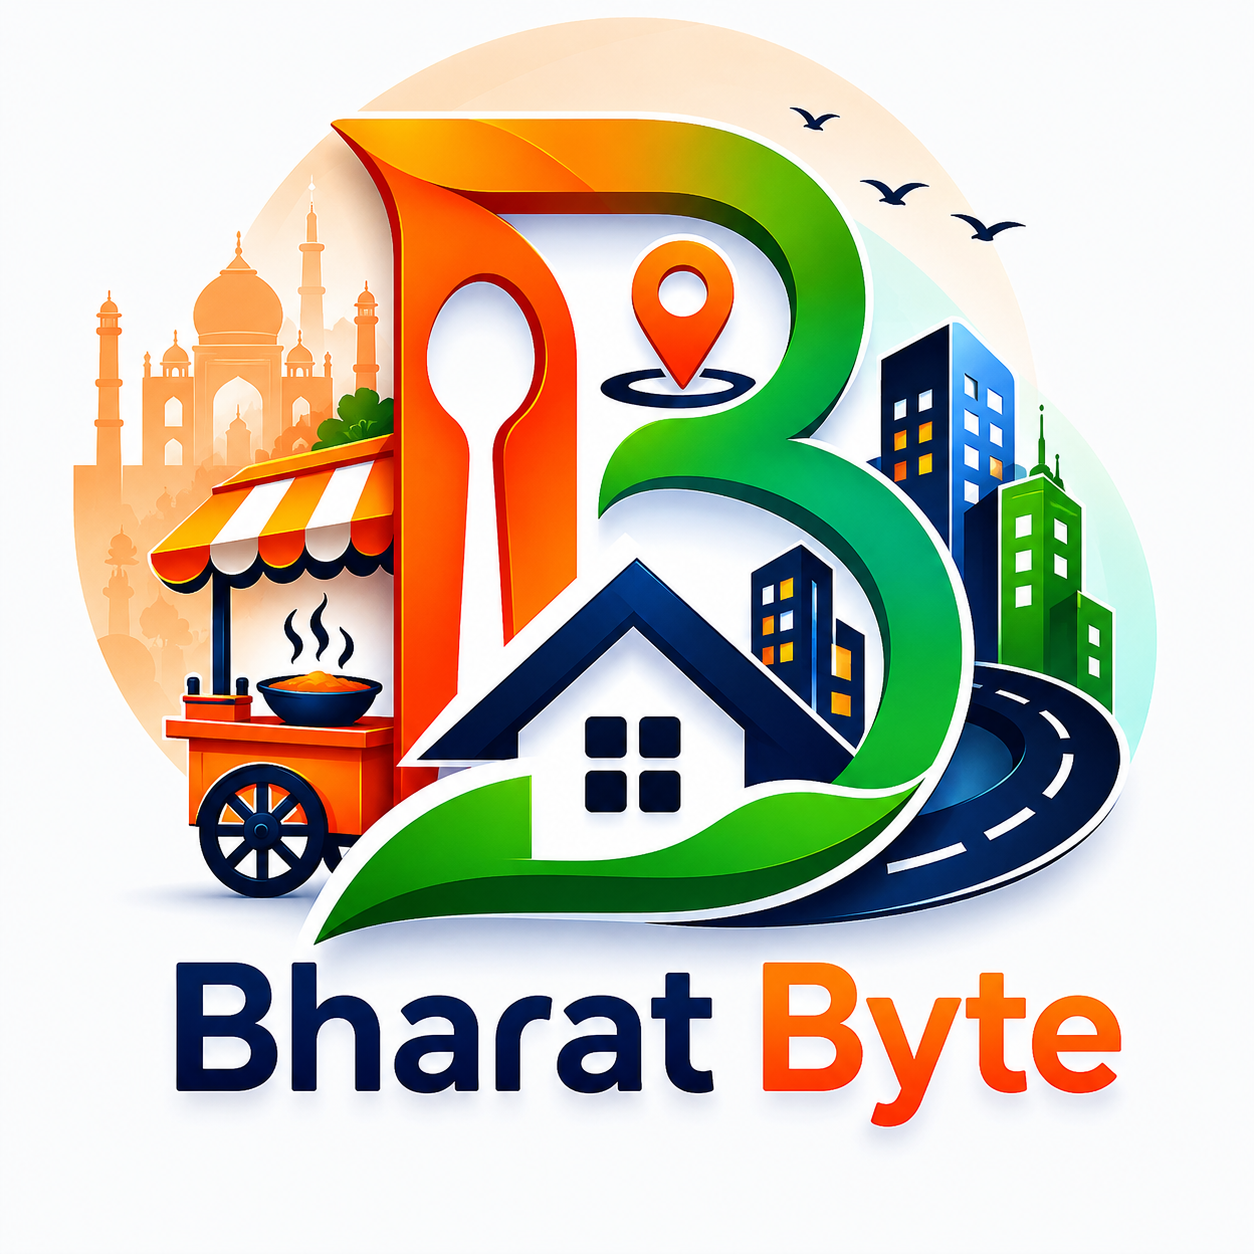
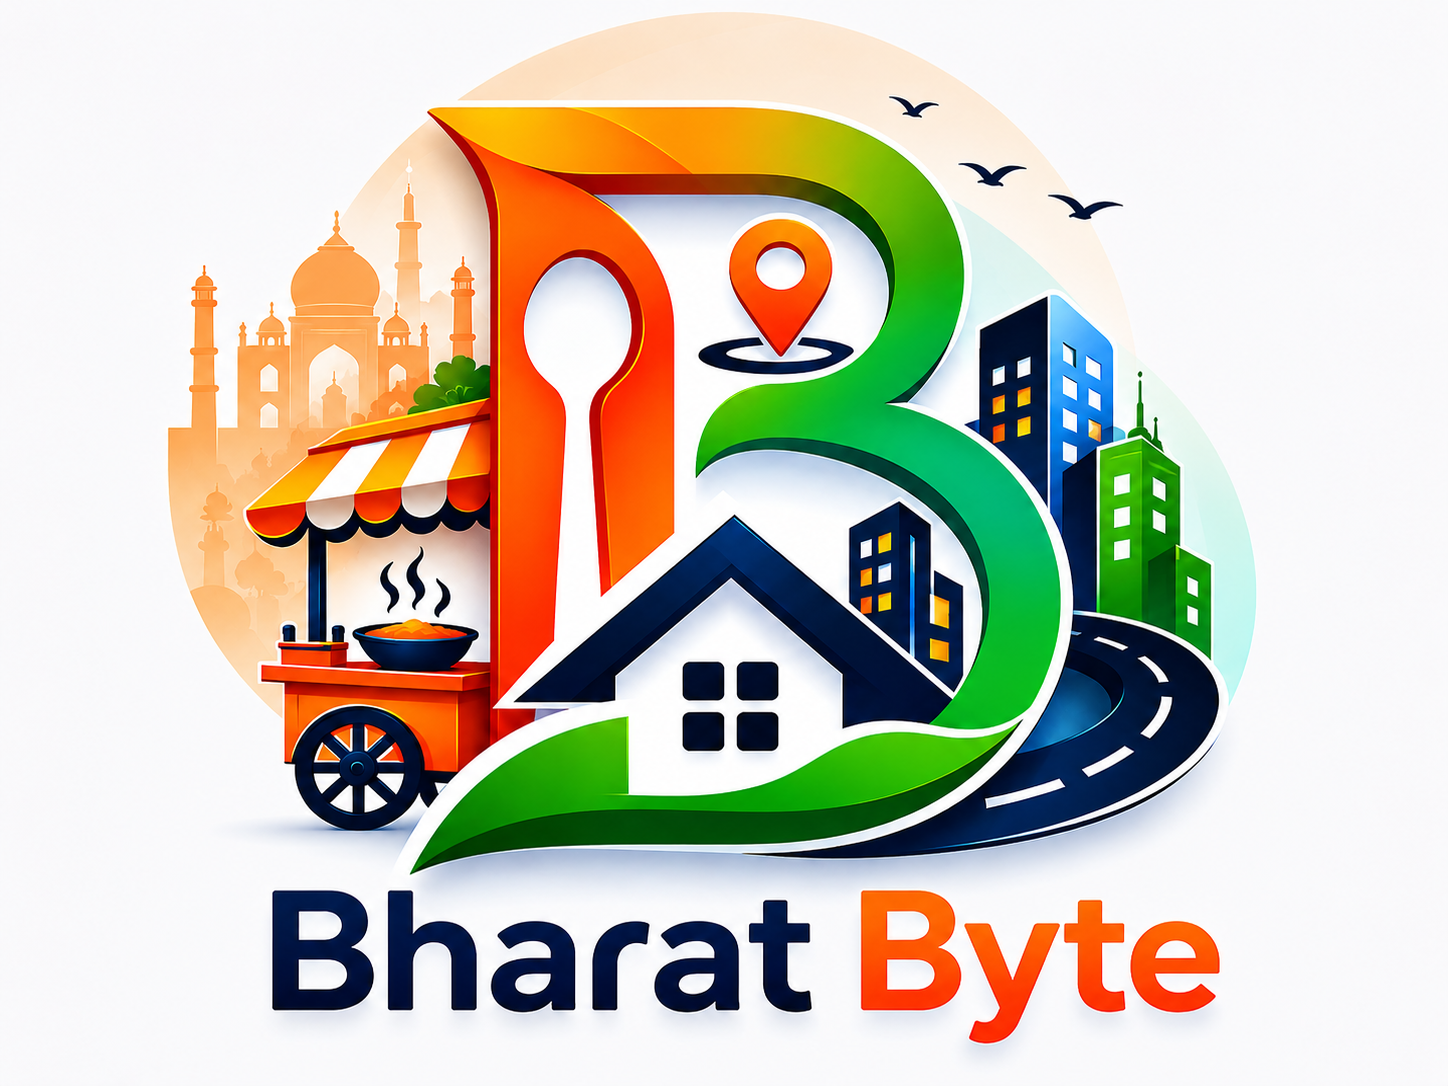
Add files via upload

diff --git a/index.html b/index.html
@@ -247,19 +247,19 @@
             <div class="container">
                 <div class="row gy-4">
                     <div class="col-md-3 col-6">
-                        <h2 class="fw-extrabold mb-1 fs-1" id="stat-listings">0</h2>
+                        <h2 class="fw-extrabold mb-1 fs-1" id="stat-listings">6</h2>
                         <div class="small fw-semibold text-white-50">Active Services</div>
                     </div>
                     <div class="col-md-3 col-6">
-                        <h2 class="fw-extrabold mb-1 fs-1" id="stat-users">0</h2>
+                        <h2 class="fw-extrabold mb-1 fs-1" id="stat-users">2</h2>
                         <div class="small fw-semibold text-white-50">Verified Users</div>
                     </div>
                     <div class="col-md-3 col-6">
-                        <h2 class="fw-extrabold mb-1 fs-1" id="stat-listers">0</h2>
+                        <h2 class="fw-extrabold mb-1 fs-1" id="stat-listers">1</h2>
                         <div class="small fw-semibold text-white-50">Active Listers</div>
                     </div>
                     <div class="col-md-3 col-6">
-                        <h2 class="fw-extrabold mb-1 fs-1" id="stat-cities">0</h2>
+                        <h2 class="fw-extrabold mb-1 fs-1" id="stat-cities">1</h2>
                         <div class="small fw-semibold text-white-50">Indian Cities</div>
                     </div>
                 </div>

diff --git a/admin_login.html b/admin_login.html
@@ -199,6 +199,7 @@
                         
                         if (val.status === 'success') {
                             alert(val.message);
+                            localStorage.setItem('user_id', val.user_id);
                             localStorage.setItem('admin_authenticated', 'true');
                             localStorage.setItem('role', 'admin');
                             localStorage.setItem('username', 'SuperAdmin');

diff --git a/app.py b/app.py
@@ -1009,10 +1009,19 @@ def api_admin_login():
     expected_pin = os.environ.get('ADMIN_PIN', '1947')
 
     if pin == expected_pin:
+        # Resolve user_id dynamically for stateless local storage mapping
+        admin_user = User.query.filter_by(role='admin').first()
+        admin_id = admin_user.id if admin_user else 1
+
+        session['user_id'] = admin_id
         session['admin_authenticated'] = True
         session['role'] = 'admin'
         session['username'] = 'SuperAdmin'
-        return jsonify({'status': 'success', 'message': 'Admin login successful!'})
+        return jsonify({
+            'status': 'success', 
+            'message': 'Admin login successful!',
+            'user_id': admin_id
+        })
     return jsonify({'status': 'error', 'message': 'Invalid secure Admin PIN.'}), 401
 
 @app.route('/api/admin/logout', methods=['POST'])